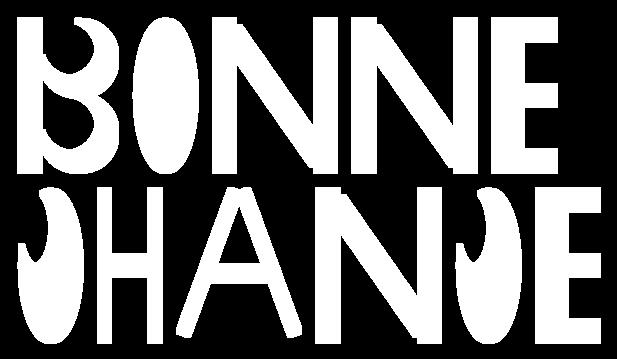
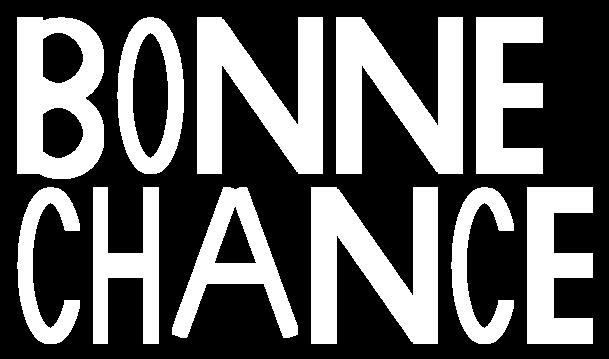
tout marche, le message BONNE CHANCE s'affiche sans problème, mais le test ne le reconnait pas...

diff --git a/src/main/java/Letter/LetterFactory.java b/src/main/java/Letter/LetterFactory.java
@@ -42,14 +42,17 @@ public final class LetterFactory {
      */
     public static BaseShape create_B() {
         double zero = 0;
+        double offset = -20;
 
-        Circle cExt1 = new Circle(halfMaxHeight);
-        Circle cInt1 = new Circle(halfMaxHeight-stripeThickness);
-        cExt1.remove(cInt1);
+        Circle cExt1 = new Circle(halfMaxHeight+5);
+        Circle cInt = new Circle(halfMaxHeight-stripeThickness);
+        cInt.replaceAll(cInt.translate(cInt.cloneCoords(), new Point2d(halfStripeThickness, halfStripeThickness)));
+        cExt1.remove(cInt);
 
         BaseShape cExt2 = new BaseShape(cExt1.cloneCoords());
-        cExt2.replaceAll(cExt2.translate(cExt2.cloneCoords(), new Point2d(zero, -halfMaxHeight)));
+        cExt2.replaceAll(cExt2.translate(cExt2.cloneCoords(), new Point2d(offset, -halfMaxHeight)));
         cExt1.replaceAll(cExt1.translate(cExt2.cloneCoords(), new Point2d(zero, halfMaxHeight)));
+
 
         Rectangle barre = new Rectangle(stripeThickness, maxHeight);
         BaseShape B = new BaseShape(barre.translate(barre.cloneCoords(), new Point2d(-halfMaxWidth+stripeThickness, zero)));
@@ -65,10 +68,11 @@ public final class LetterFactory {
     public static BaseShape create_C() {
         double zero =0;
         Ellipse cExt = new Ellipse(maxWidth, maxHeight);
-        Ellipse cInt = new Ellipse(halfMaxWidth, halfMaxHeight);
+        Ellipse cInt = new Ellipse(maxWidth-stripeThickness, maxHeight-stripeThickness);
+        cInt.replaceAll(cInt.translate(cInt.cloneCoords(), new Point2d(halfStripeThickness, halfStripeThickness)));
         cExt.remove(cInt);
-        Rectangle gap = new Rectangle(stripeThickness, halfMaxWidth);
-        //gap.replaceAll(gap.translate(gap.cloneCoords(), new Point2d(halfMaxWidth/2,zero)));
+        Rectangle gap = new Rectangle(stripeThickness+20, halfMaxHeight);
+        gap.replaceAll(gap.translate(gap.cloneCoords(), new Point2d(halfMaxWidth+20,halfMaxHeight)));
         cExt.remove(gap);
 
         BaseShape C = new BaseShape(cExt.cloneCoords());
@@ -83,7 +87,7 @@ public final class LetterFactory {
         double zero = 0;
         Rectangle left = new Rectangle(maxWidth, maxHeight);
         Rectangle right = new Rectangle(maxWidth-stripeThickness, maxHeight);
-        right.replaceAll(right.translate(right.getCoords(), new Point2d(stripeThickness, zero)));
+        right.replaceAll(right.translate(right.getCoords(), new Point2d(stripeThickness-7, zero)));
         left.remove(right);
 
         Rectangle barre1 = new Rectangle(maxWidth, stripeThickness);
@@ -127,7 +131,7 @@ public final class LetterFactory {
         Rectangle left = new Rectangle(stripeThickness, maxHeight);
         left.replaceAll(left.translate(left.cloneCoords(), new Point2d(-maxWidth+halfStripeThickness, zero)));
 
-        Rectangle middle = new Rectangle(stripeThickness, maxHeight+5);
+        Rectangle middle = new Rectangle(stripeThickness, maxHeight+15);
         double angleLeft = Math.toRadians(145);
         middle.replaceAll(middle.rotate(middle.cloneCoords(), angleLeft));
 
@@ -144,10 +148,11 @@ public final class LetterFactory {
     public static BaseShape create_O() {
         Ellipse oExt = new Ellipse(maxWidth, maxHeight);
         Ellipse oInt = new Ellipse(maxWidth-stripeThickness, maxHeight-stripeThickness);
-        //oExt.remove(oInt);
+        oInt.replaceAll(oInt.translate(oInt.cloneCoords(), new Point2d(halfStripeThickness, halfStripeThickness)));
+        oExt.remove(oInt);
 
-        //BaseShape O = new BaseShape(oExt.cloneCoords());
-        return oExt;
+        BaseShape O = new BaseShape(oExt.cloneCoords());
+        return O;
     }
 
 }
